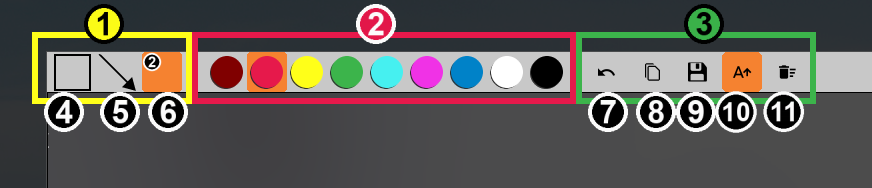
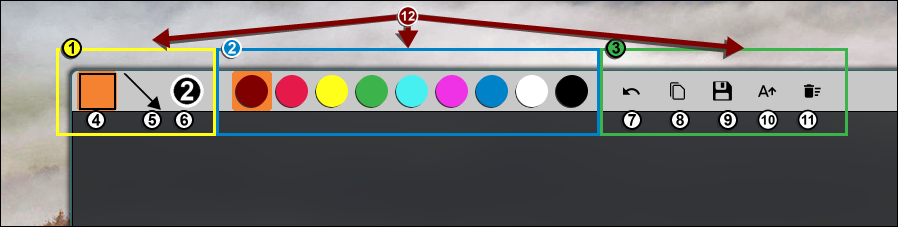
update screenshot

diff --git a/README.md b/README.md
@@ -16,7 +16,7 @@ Supported shapes:
 - rectangles
 - arrows
 
-## Screenshot
+## Documentation / annotation example
 
 ![](https://raw.githubusercontent.com/fdev31/ynot3/main/img/annotated.png)
 
@@ -32,6 +32,8 @@ Supported shapes:
         - override setting the `ANNOTATED` environment variable
     - *(10)* toggle large mode (everything is magnified)
     - *(11)* clear changes (remove all annotations) (shortcut: "c")
+
+Note: *(12)* is only here to demonstrate arrows usage
 
 ## Example usage
 
